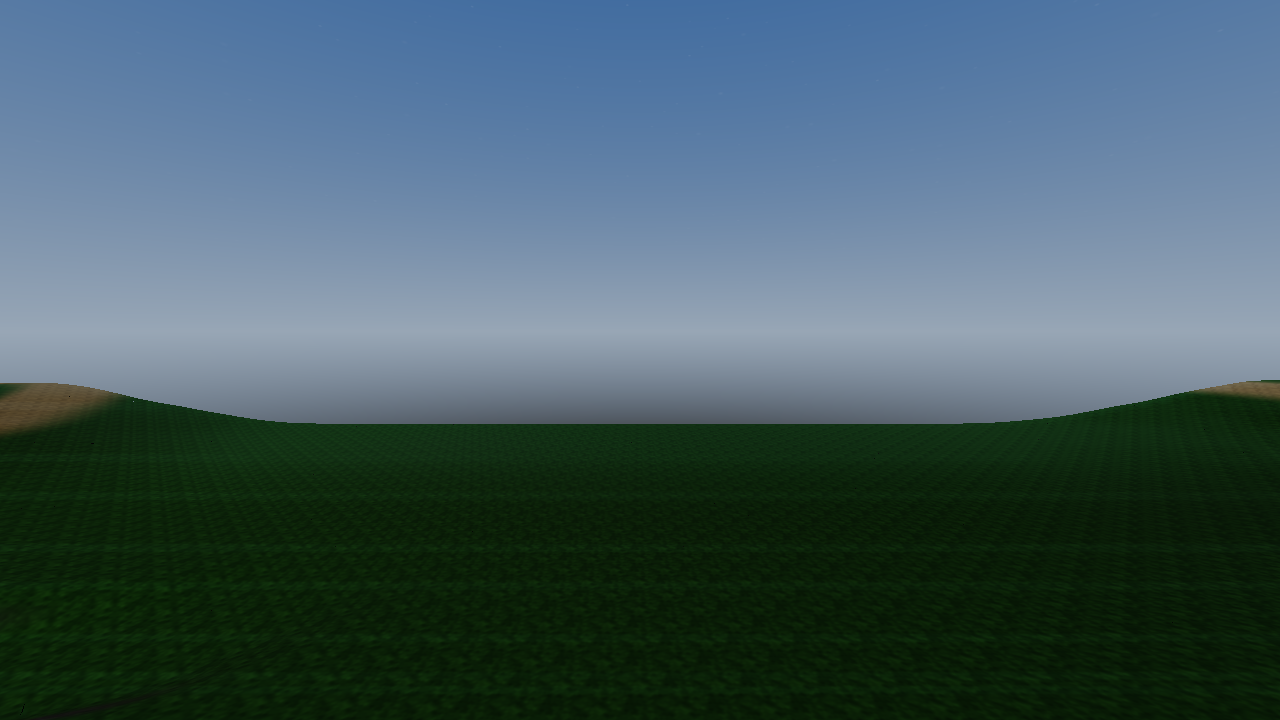
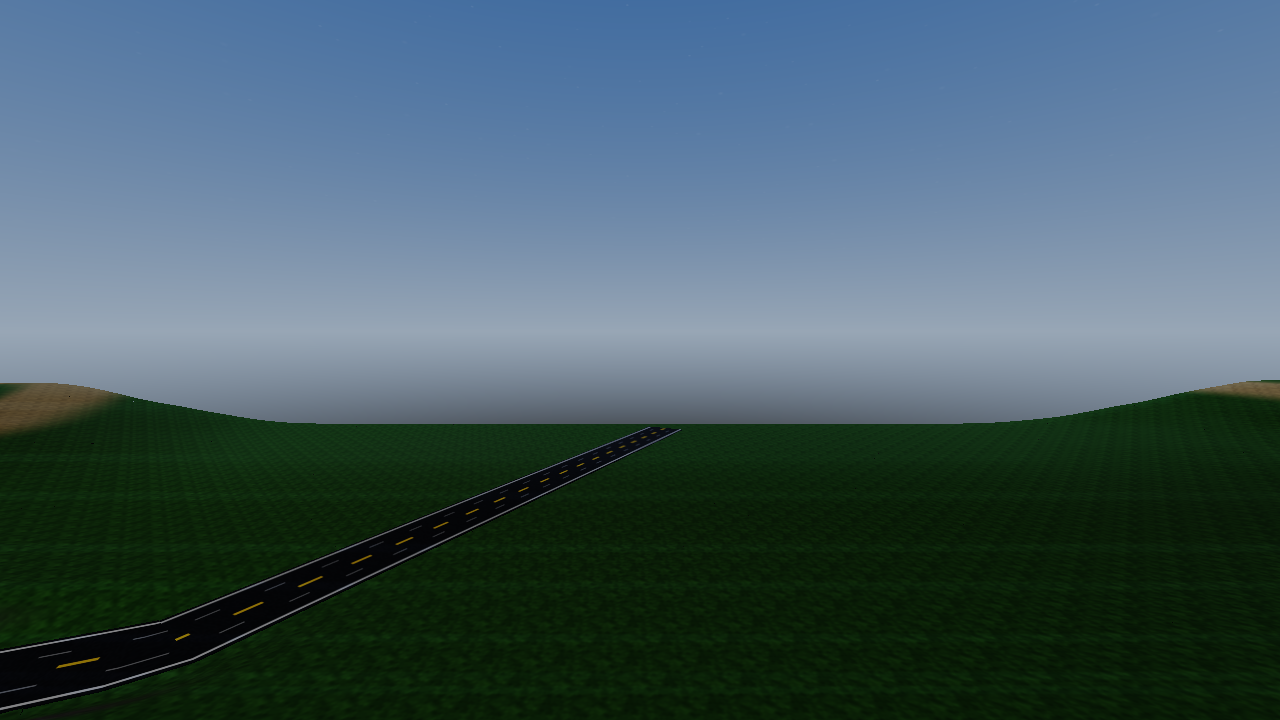
feat(terrain): FREEWAY asphalt ribbon — paved deck + lane lines along the graded corridor
buildFreewayRibbon() sweeps a single static strip mesh along worldFreewaySampleArc
(the pad-aware graded centerline), laid 0.16 m above the carved deck, with a
procedurally-painted asphalt texture: dark grain + solid white edge lines + dashed
yellow center line + faint lane dividers (4-lane divided look). Wound to the terrain's
up-facing convention (across = up x tangent). Visual only — the drivable collision is
the flat carved terrain deck underneath. Wired into --world terrain (dry land) and the
--screenshot-terrain money shot. 646 verts / 644 tris over 966 m.

Money shot reviewed: paved freeway threads the valley and enters a hill CUT — reads as
a real divided highway. Vista + tower-pad shots unchanged.

Claude-Session: https://claude.ai/code/session_01NzF949R67QpTBktyHMwXFh

Changed region(s): [[0.0, 0.5806, 0.5312, 1.0]]

diff --git a/app/terrain.cpp b/app/terrain.cpp
@@ -587,6 +587,94 @@ void placeOnTerrain(float x, float z, float outPos[3]) {
     outPos[2] = z;
 }
 
+// ---------------------------------------------------------------------------
+// FREEWAY asphalt ribbon (see terrain.h). A single static strip mesh swept along
+// the graded centerline (worldFreewaySampleArc), laid just above the carved deck,
+// with a procedurally-painted asphalt + lane-lines texture. Visual only; the car
+// drives the flat carved terrain deck underneath. Clean-room (the same value-noise
+// used for terrain, applied to a road cross-section paint).
+// ---------------------------------------------------------------------------
+uint32_t buildFreewayRibbon(Scene& scene, x3::rhi::IRenderDevice& device) {
+    const float len = worldFreewayLength();
+    if (len < 1.0f) return kNoLink;
+    const float halfW = worldFreewayHalfWidth();
+
+    // ---- Asphalt + lane-lines texture. U = ACROSS the deck (0..1), V = ALONG it;
+    // one V tile spans kTileLen metres of road so the dashes repeat at a real-world
+    // cadence. Dark asphalt grain + solid white edge lines + a dashed yellow center
+    // line + faint dashed lane dividers (a 4-lane divided look).
+    const uint32_t TW = 96, TH = 128;      // across x along texels
+    const float    kTileLen = 8.0f;        // metres of road per V tile
+    std::vector<uint8_t> tpx((size_t)TW * TH * 4);
+    for (uint32_t y = 0; y < TH; ++y) {
+        for (uint32_t x = 0; x < TW; ++x) {
+            const float nx = (x + 0.5f) / (float)TW;   // across [0,1]
+            const float ny = (y + 0.5f) / (float)TH;   // along  [0,1]
+            const float grain = valueNoise(nx * 37.0f, ny * 43.0f, 5150u);
+            int base = 44 + (int)(grain * 18.0f);       // 44..62 dark grey
+            int r = base, g = base, b = base + 3;
+            auto band = [&](float c, float hw) { return std::fabs(nx - c) < hw; };
+            if (band(0.055f, 0.018f) || band(0.945f, 0.018f)) {          // edge lines
+                r = g = b = 225;
+            } else if (band(0.5f, 0.017f) && ny > 0.10f && ny < 0.52f) { // center dash
+                r = 236; g = 206; b = 66;
+            } else if ((band(0.28f, 0.010f) || band(0.72f, 0.010f)) &&
+                       ny > 0.55f && ny < 0.88f) {                       // lane dividers
+                r = g = b = 165;
+            }
+            uint8_t* p = &tpx[((size_t)y * TW + x) * 4];
+            p[0] = (uint8_t)r; p[1] = (uint8_t)g; p[2] = (uint8_t)b; p[3] = 255;
+        }
+    }
+    x3::rhi::TextureHandle tex = device.createTexture(tpx.data(), TW, TH, /*srgb=*/true);
+
+    // ---- Sweep the ribbon. Two edge verts per along-step; wound to match the
+    // terrain's up-facing convention: with along = tangent and across = up x along,
+    // triangles {A,C,B / B,C,D} face +Y. Deck lifted a touch above the carved
+    // corridor (which the carve holds flat within halfW) to avoid z-fighting.
+    std::vector<x3::rhi::MeshVertex> verts;
+    std::vector<uint32_t>            idx;
+    const int   steps = std::max(2, (int)(len / 3.0f));   // ~3 m per segment
+    const float yLift = 0.16f;
+    verts.reserve((size_t)(steps + 1) * 2);
+    idx.reserve((size_t)steps * 6);
+    for (int i = 0; i <= steps; ++i) {
+        const float s = (float)i / (float)steps;
+        float c[3], t[2];
+        worldFreewaySampleArc(s, c, t);
+        // across = up x tangent = (t.z, 0, -t.x); A = -across edge, B = +across edge.
+        const float ax = t[1], az = -t[0];
+        const float v  = (s * len) / kTileLen;
+        x3::rhi::MeshVertex A, B;
+        A.pos[0] = c[0] - ax * halfW; A.pos[1] = c[1] + yLift; A.pos[2] = c[2] - az * halfW;
+        B.pos[0] = c[0] + ax * halfW; B.pos[1] = c[1] + yLift; B.pos[2] = c[2] + az * halfW;
+        A.normal[0] = 0.0f; A.normal[1] = 1.0f; A.normal[2] = 0.0f;
+        B.normal[0] = 0.0f; B.normal[1] = 1.0f; B.normal[2] = 0.0f;
+        A.uv[0] = 0.0f; A.uv[1] = v;
+        B.uv[0] = 1.0f; B.uv[1] = v;
+        verts.push_back(A);
+        verts.push_back(B);
+    }
+    for (int i = 0; i < steps; ++i) {
+        const uint32_t a = (uint32_t)(i * 2), b = a + 1, cc = a + 2, d = a + 3;
+        idx.insert(idx.end(), { a, cc, b,  b, cc, d });
+    }
+    x3::rhi::MeshHandle mesh = device.createMesh(verts.data(), (uint32_t)verts.size(),
+                                                 idx.data(), (uint32_t)idx.size());
+
+    Entity e;
+    e.mesh = mesh;
+    e.tex  = tex;
+    for (int i = 0; i < 4; ++i)  e.baseColor[i] = 1.0f;
+    for (int i = 0; i < 16; ++i) e.transform[i] = kIdentity[i];
+    e.tag = (uint32_t)Tag::Static;
+    e.visible = true;
+    const uint32_t id = scene.add(e);
+    x3::logInfo("[terrain] freeway ribbon: " + std::to_string(verts.size()) + " verts, " +
+                std::to_string(idx.size() / 3) + " tris over " + std::to_string((int)len) + " m");
+    return id;
+}
+
 // ===========================================================================
 // Terrain (B2 fixed grid) — unchanged behavior, now built on the shared free
 // helpers. Used by --screenshot-terrain + --test-terrain.

diff --git a/app/screenshot_hosts.cpp b/app/screenshot_hosts.cpp
@@ -1367,6 +1367,10 @@ int dispatchScreenshotHosts(HostContext& hc) {
 
         auto H = [&](float x, float z){ return streamer.heightAt(x, z); };
 
+        // Lay the FREEWAY asphalt ribbon (static; whole route) so the money shot
+        // shows a real paved road threading the carved corridor, not a bare cut.
+        x3::game::buildFreewayRibbon(tscene, *device);
+
         // (1) MOUNTAIN VISTA — push the focus OUT into the eastern range so the big
         // ridged peaks (r ~ 1000..1700 m, masked in by the radial bowl) are resident,
         // and stand back in the rising foothills looking up-slope into them.
@@ -1378,12 +1382,12 @@ int dispatchScreenshotHosts(HostContext& hc) {
         // looking NW ALONG the freeway toward the Scrapyard City pad, so the flat
         // cut/fill ribbon threads between the higher ground on either side.
         {
-            const float cx = 130.0f, cz = 90.0f;
-            const float tx = -500.0f, tz = 700.0f;            // city pad (route end)
-            const float yaw = std::atan2(tz - cz, tx - cx);   // face down the route
-            capture(-120.0f, 380.0f,
-                    cx, H(cx, cz) + 34.0f, cz,
-                    yaw, -0.13f, "freeway");
+            const float cx = 95.0f, cz = 95.0f;               // just above the road start
+            const float tx = -200.0f, tz = 520.0f;            // look down the climbing route
+            const float yaw = std::atan2(tz - cz, tx - cx);   // face along the ribbon
+            capture(-70.0f, 320.0f,
+                    cx, H(cx, cz) + 11.0f, cz,
+                    yaw, -0.10f, "freeway");
         }
 
         // (3) TOWER PAD + MOUNTAINS BEHIND — from beyond the flat tower pad looking

diff --git a/app/terrain.h b/app/terrain.h
@@ -141,6 +141,15 @@ float    worldFreewayLength();
 // ribbon builder (mesh sweep) + the grade self-test (dDeckY/ds <= max grade).
 bool     worldFreewaySampleArc(float s, float outCenter[3], float outTangent[2]);
 
+// Build the FREEWAY asphalt ribbon (deck surface + painted lane lines) as a single
+// static scene mesh swept along the graded centerline, laid just above the carved
+// corridor. Visual only — the DRIVABLE collision is the flat carved terrain deck
+// underneath (a car drives the freeway via the ordinary terrain heightfield). Uses
+// its own procedurally-generated asphalt+lane-lines texture. Returns the scene
+// entity id (kNoLink if the route is degenerate). Call once after the world/terrain
+// is set up (the ribbon does not stream — the whole route is a bounded static mesh).
+uint32_t buildFreewayRibbon(Scene& scene, x3::rhi::IRenderDevice& device);
+
 // The LOD level a tile is currently meshed at. 0 = full density (also used for
 // collision), 1 = half, 2 = quarter. Increasing = coarser/cheaper.
 enum class TerrainLod : uint8_t { Full = 0, Half = 1, Quarter = 2, Count = 3 };

diff --git a/app/app_run.cpp b/app/app_run.cpp
@@ -1569,10 +1569,14 @@ int runDefaultHost(HostContext& hc) {
         // Residency radius 8 tiles (= 256 m) => up to 17x17 = 289 tiles resident.
         terrainStreamer.init(scene, *device, *physics, terrainJobs.get(),
                              tcfg, sx, sz, /*radius=*/8);
+        // Lay the FREEWAY asphalt ribbon (static geometry along the graded corridor).
+        // Dry-land terrain only — in ocean mode the low route would be awash.
+        if (!oceanWorld)
+            x3::game::buildFreewayRibbon(scene, *device);
         if (oceanWorld)
             x3::logInfo("--world ocean: STREAMED terrain + animated ocean (walk the shore, WASD)");
         else
-            x3::logInfo("--world terrain: STREAMED unbounded terrain world (walk/fly the hills, WASD)");
+            x3::logInfo("--world terrain: STREAMED unbounded terrain world + freeway (walk/drive, WASD)");
     }
 
     // ---- Combat FX (gameplay-feel pass): shot tracers + muzzle flash. The
